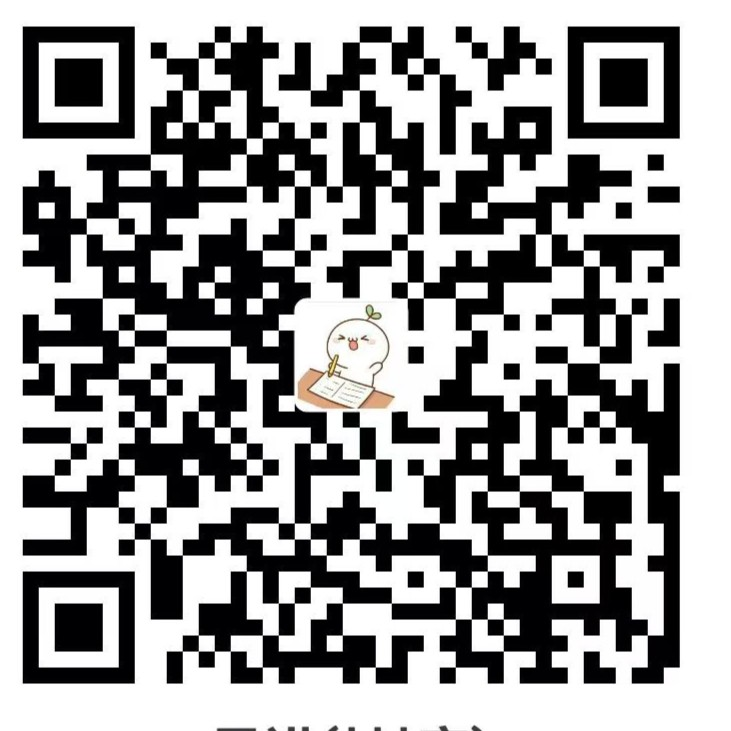
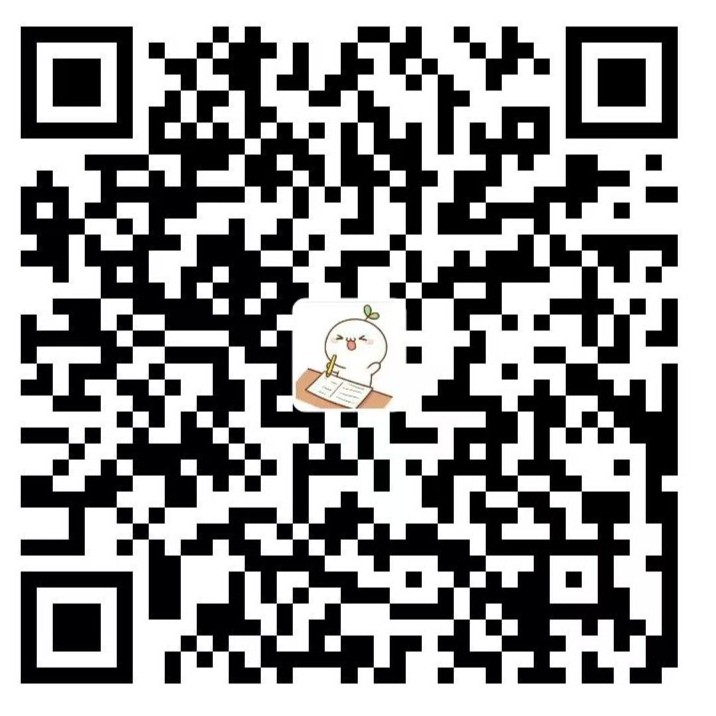
新增图床，修复无法翻页

diff --git a/src/config/sponsorConfig.ts b/src/config/sponsorConfig.ts
@@ -26,7 +26,7 @@ export const sponsorConfig: SponsorConfig = {
 			name: "支付宝",
 			icon: "fa7-brands:alipay",
 			// 收款码图片路径（需要放在 public 目录下）
-			qrCode: "/assets/images/sponsor/alipay.jpg",
+			qrCode: "https://image.astrvow.com/file/sponsor/1786176794655_alipay.jpg",
 			link: "",
 			description: "使用“支付宝”扫码打赏",
 			enabled: true,
@@ -34,7 +34,7 @@ export const sponsorConfig: SponsorConfig = {
 		{
 			name: "微信",
 			icon: "fa7-brands:weixin",
-			qrCode: "/assets/images/sponsor/WeChat.jpg",
+			qrCode: "https://image.astrvow.com/file/sponsor/1786176794737_WeChat.jpg",
 			link: "",
 			description: "使用“微信”扫码打赏",
 			enabled: true,
@@ -62,7 +62,7 @@ export const sponsorConfig: SponsorConfig = {
 		{
 			name: "爱在西元前",
 			avatar:
-				"/assets/images/sponsor/avatar/1.jpg",
+				"https://image.astrvow.com/file/sponsor/avatar/1786176796495_1.jpg",
 			amount: "¥0.02",
 			date: "2026-07-26",
 		},

diff --git a/src/config/navBarConfig.ts b/src/config/navBarConfig.ts
@@ -121,6 +121,13 @@ const getDynamicNavBarConfig = (): NavBarConfig => {
 				external: true,
 				icon: "fa7-brands:bilibili",
 			},
+			// 图床
+			{
+				name: "图床",
+				url: "https://image.astrvow.com/",
+				external: true,
+				icon: "material-symbols:image",
+			},
 			// 友链
 			LinkPresets.Friends,
 

diff --git a/src/content/posts/ugc_liyueqiannian/index.md b/src/content/posts/ugc_liyueqiannian/index.md
@@ -31,10 +31,10 @@ category: 原神千星奇域
 
 <div style="position:relative;max-width:800px;margin:0 auto 1rem;">
   <div class="promo-scroll" style="display:flex;overflow:hidden;scroll-behavior:smooth;border-radius:12px;box-shadow:0 4px 12px rgba(0,0,0,.15);">
-    <a href="/assets/images/Blogs/ugc_liyueqiannian/promotion1.png" data-fancybox="promo" data-caption="宣传图1" style="min-width:100%;scroll-snap-align:start;"><img src="/assets/images/Blogs/ugc_liyueqiannian/promotion1.png" alt="宣传图1" style="width:100%;display:block;"></a>
-    <a href="/assets/images/Blogs/ugc_liyueqiannian/promotion2.jpg" data-fancybox="promo" data-caption="宣传图2" style="min-width:100%;scroll-snap-align:start;"><img src="/assets/images/Blogs/ugc_liyueqiannian/promotion2.jpg" alt="宣传图2" style="width:100%;display:block;"></a>
-    <a href="/assets/images/Blogs/ugc_liyueqiannian/promotion3.jpg" data-fancybox="promo" data-caption="宣传图3" style="min-width:100%;scroll-snap-align:start;"><img src="/assets/images/Blogs/ugc_liyueqiannian/promotion3.jpg" alt="宣传图3" style="width:100%;display:block;"></a>
-    <a href="/assets/images/Blogs/ugc_liyueqiannian/promotion4.png" data-fancybox="promo" data-caption="宣传图4" style="min-width:100%;scroll-snap-align:start;"><img src="/assets/images/Blogs/ugc_liyueqiannian/promotion4.png" alt="宣传图4" style="width:100%;display:block;"></a>
+    <a href="https://image.astrvow.com/file/Blogs/ugc_liyueqiannian/1786176643821_promotion1.png" data-fancybox="promo" data-caption="宣传图1" style="min-width:100%;scroll-snap-align:start;"><img src="https://image.astrvow.com/file/Blogs/ugc_liyueqiannian/1786176643821_promotion1.png" alt="宣传图1" style="width:100%;display:block;"></a>
+    <a href="https://image.astrvow.com/file/Blogs/ugc_liyueqiannian/1786176644071_promotion2.jpg" data-fancybox="promo" data-caption="宣传图2" style="min-width:100%;scroll-snap-align:start;"><img src="https://image.astrvow.com/file/Blogs/ugc_liyueqiannian/1786176644071_promotion2.jpg" alt="宣传图2" style="width:100%;display:block;"></a>
+    <a href="https://image.astrvow.com/file/Blogs/ugc_liyueqiannian/1786176648633_promotion3.jpg" data-fancybox="promo" data-caption="宣传图3" style="min-width:100%;scroll-snap-align:start;"><img src="https://image.astrvow.com/file/Blogs/ugc_liyueqiannian/1786176648633_promotion3.jpg" alt="宣传图3" style="width:100%;display:block;"></a>
+    <a href="https://image.astrvow.com/file/Blogs/ugc_liyueqiannian/1786176652283_promotion4.png" data-fancybox="promo" data-caption="宣传图4" style="min-width:100%;scroll-snap-align:start;"><img src="https://image.astrvow.com/file/Blogs/ugc_liyueqiannian/1786176652283_promotion4.png" alt="宣传图4" style="width:100%;display:block;"></a>
   </div>
   <button onclick="this.parentElement.querySelector('.promo-scroll').scrollLeft -= this.parentElement.querySelector('.promo-scroll').offsetWidth" style="left:8px;position:absolute;top:50%;transform:translateY(-50%);background:rgba(0,0,0,.5);color:#fff;border:none;border-radius:50%;width:40px;height:40px;font-size:24px;cursor:pointer;z-index:2;display:flex;align-items:center;justify-content:center;">‹</button>
   <button onclick="this.parentElement.querySelector('.promo-scroll').scrollLeft += this.parentElement.querySelector('.promo-scroll').offsetWidth" style="right:8px;position:absolute;top:50%;transform:translateY(-50%);background:rgba(0,0,0,.5);color:#fff;border:none;border-radius:50%;width:40px;height:40px;font-size:24px;cursor:pointer;z-index:2;display:flex;align-items:center;justify-content:center;">›</button>
@@ -46,8 +46,8 @@ category: 原神千星奇域
 
 <div style="position:relative;max-width:800px;margin:0 auto 1rem;">
   <div class="heat-scroll" style="display:flex;overflow:hidden;scroll-behavior:smooth;border-radius:12px;box-shadow:0 4px 12px rgba(0,0,0,.15);">
-    <a href="/assets/images/Blogs/ugc_liyueqiannian/heat.png" data-fancybox="heat" data-caption="30天最高热度" style="min-width:100%;scroll-snap-align:start;"><img src="/assets/images/Blogs/ugc_liyueqiannian/heat.png" alt="30天最高热度" style="width:100%;display:block;"></a>
-    <a href="/assets/images/Blogs/ugc_liyueqiannian/ranking.png" data-fancybox="heat" data-caption="热度排行" style="min-width:100%;scroll-snap-align:start;"><img src="/assets/images/Blogs/ugc_liyueqiannian/ranking.png" alt="热度排行" style="width:100%;display:block;"></a>
+    <a href="https://image.astrvow.com/file/Blogs/ugc_liyueqiannian/1786176653270_heat.png" data-fancybox="heat" data-caption="30天最高热度" style="min-width:100%;scroll-snap-align:start;"><img src="https://image.astrvow.com/file/Blogs/ugc_liyueqiannian/1786176653270_heat.png" alt="30天最高热度" style="width:100%;display:block;"></a>
+    <a href="https://image.astrvow.com/file/Blogs/ugc_liyueqiannian/1786176651109_ranking.png" data-fancybox="heat" data-caption="热度排行" style="min-width:100%;scroll-snap-align:start;"><img src="https://image.astrvow.com/file/Blogs/ugc_liyueqiannian/1786176651109_ranking.png" alt="热度排行" style="width:100%;display:block;"></a>
   </div>
   <button onclick="this.parentElement.querySelector('.heat-scroll').scrollLeft -= this.parentElement.querySelector('.heat-scroll').offsetWidth" style="left:8px;position:absolute;top:50%;transform:translateY(-50%);background:rgba(0,0,0,.5);color:#fff;border:none;border-radius:50%;width:40px;height:40px;font-size:24px;cursor:pointer;z-index:2;display:flex;align-items:center;justify-content:center;">‹</button>
   <button onclick="this.parentElement.querySelector('.heat-scroll').scrollLeft += this.parentElement.querySelector('.heat-scroll').offsetWidth" style="right:8px;position:absolute;top:50%;transform:translateY(-50%);background:rgba(0,0,0,.5);color:#fff;border:none;border-radius:50%;width:40px;height:40px;font-size:24px;cursor:pointer;z-index:2;display:flex;align-items:center;justify-content:center;">›</button>
